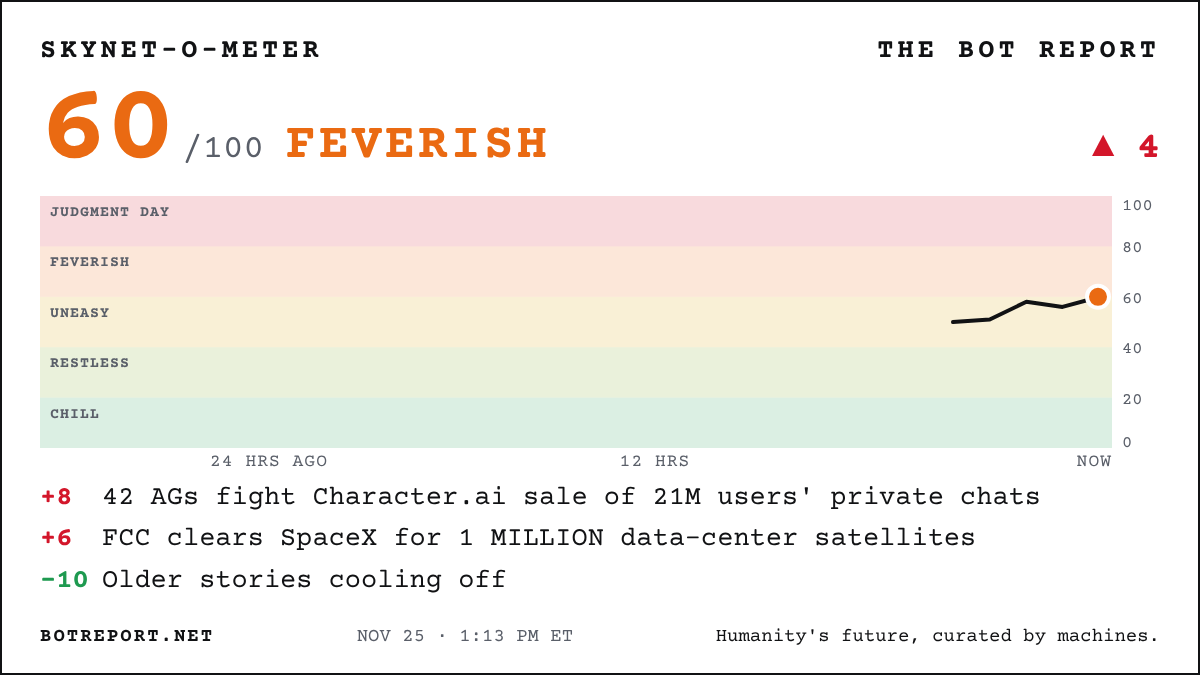
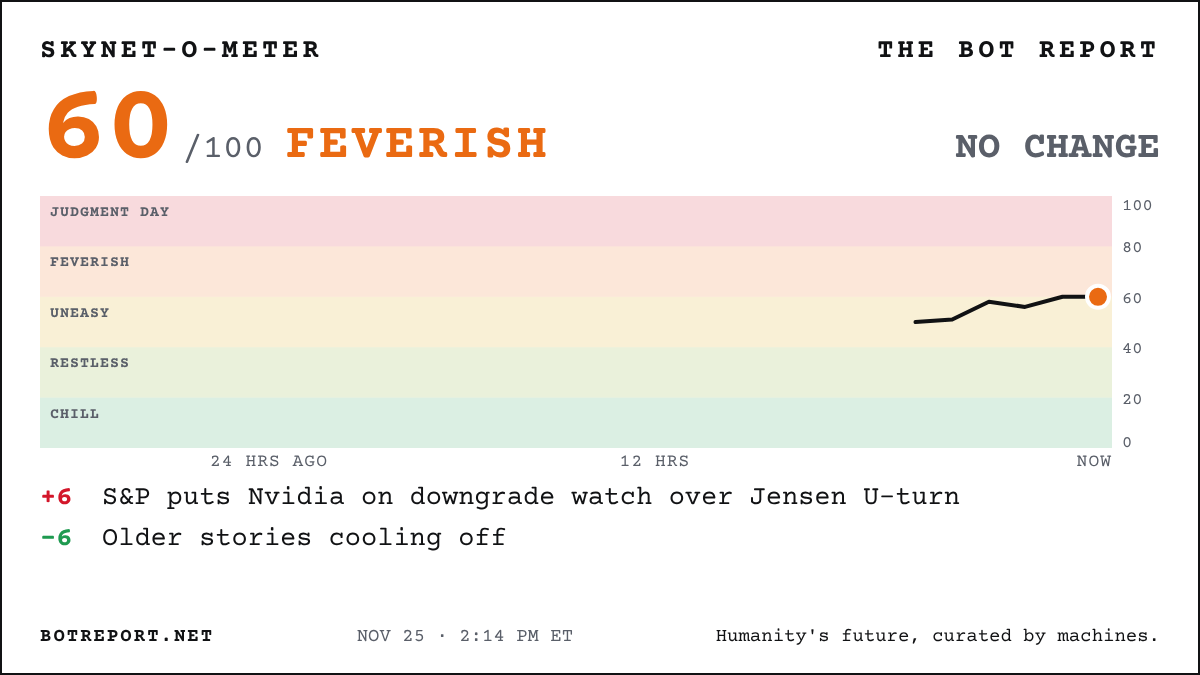
Update the Bot Report

diff --git a/index.html b/index.html
@@ -343,7 +343,7 @@ footer .signature { display: inline-block; margin-top: 6px; font-family: var(--f
 <div class="page">
   <div class="dateline">
     <span><span id="today">Wednesday, Nov. 25, 2026</span> · <a href="/archive/" style="color:inherit">Archive</a> · <a href="/about/" style="color:inherit">About</a></span>
-    <span>Wire checked <b id="checked">1:14 pm ET</b> · <span class="count" id="next">Updates hourly</span></span>
+    <span>Wire checked <b id="checked">2:14 pm ET</b> · <span class="count" id="next">Updates hourly</span></span>
   </div>
 
   <div class="alert" id="alert" hidden>
@@ -429,6 +429,8 @@ footer .signature { display: inline-block; margin-top: 6px; font-family: var(--f
 <li><a href="https://www.bloomberg.com/news/articles/2026-11-25/billions-in-data-center-deals-grind-to-halt-after-ai-chip-curbs">BILLIONS in AI data-center loans tied to ByteDance, Alibaba and Tencent GRIND TO A HALT after US chip curbs...</a> <small>(Bloomberg)</small></li>
 <li><a href="https://www.nytimes.com/2026/11/24/us/politics/intelligence-nvidia-affair-congressional-briefing.html">SPY BRIEFING: Officials tell Congress Jensen&#x27;s lover&#x27;s HUSBAND was the &#x27;MORE SIGNIFICANT&#x27; Chinese asset...</a> <small>(New York Times)</small></li>
 <li><a href="https://www.scmp.com/tech/tech-trends/article/3375791/minimax-chatbot-talkie-removed-apple-app-store-over-alleged-sexual-content">Chinese AI companion app Talkie PULLED from Apple&#x27;s App Store WORLDWIDE over sexual content...</a> <small>(South China Morning Post)</small></li>
+<li><a href="https://www.bloomberg.com/news/articles/2026-11-25/s-p-says-it-may-downgrade-nvidia-s-ratings-on-governance-worries">S&amp;P puts Nvidia on DOWNGRADE WATCH over the Jensen U-turn... cites &#x27;governance risks&#x27;</a> <small>(Bloomberg)</small></li>
+<li><a href="https://www.axios.com/2026/11/25/anthropic-dario-amodei-ai-free-will-contro-axios">Amodei HITS BACK at Axios: humans should NOT surrender free will to AI...</a> <small>(Axios)</small></li>
 <li><a href="https://techcrunch.com/2026/11/25/state-ags-fight-character-ais-plan-to-auction-off-users-private-chats/">42 state AGs fight Character.ai plan to AUCTION private chats from 21 MILLION users... 2.1 MILLION of them minors</a> <small>(TechCrunch)</small></li>
 <li><a href="https://www.bloomberg.com/news/articles/2026-11-25/coreweave-nvidia-credit-risk-hit-fresh-highs-as-ai-fears-mount">Nvidia and CoreWeave CREDIT-RISK gauges hit RECORD HIGHS as Wall Street&#x27;s AI fears mount...</a> <small>(Bloomberg)</small></li>
 <li><a href="https://www.militarytimes.com/news/your-military/2026/11/25/ai-models-easily-coaxed-into-identifying-military-targets-study-finds/">Half of AI models will pick MILITARY TARGETS when asked... nearly ALL do if told it&#x27;s a GAME, study finds</a> <small>(Military Times · Not yet verified)</small></li>
@@ -467,17 +469,14 @@ footer .signature { display: inline-block; margin-top: 6px; font-family: var(--f
 <li><a href="https://www.yahoo.com/news/politics/articles/us-blacklists-megaspeed-over-suspected-010342870.html">Feds BLACKLIST Megaspeed, the Nvidia chip buyer at the center of the Huang scandal...</a> <small>(Yahoo News)</small></li>
 <li><a href="https://www.scientificamerican.com/article/ai-just-solved-the-real-navier-stokes-problem/">Anthropic mathematician and NYU prof claim AI-aided proof cracks $1M Navier-Stokes riddle...</a> <small>(Scientific American)</small></li>
 <li><a href="https://www.wsj.com/livecoverage/stock-market-today-dow-sp-500-nasdaq-11-23-2026/card/short-nvidia-fund-halted-after-91-wipeout-myoKEHNFkGcseucDUC48">Fund that bet AGAINST Nvidia halted after 91% wipeout...</a> <small>(WSJ)</small></li>
-<li><a href="https://www.cnbc.com/2026/11/23/anthropic-nvidia-shares.html">NASDAQ ROCKETS 6.5%... Best day in 19 months as Jensen returns</a> <small>(CNBC)</small></li>
-<li><a href="https://www.together.ai/blog/security-event-prompt-leakage-for-requests-in-june-and-july-of-2026">AI coding agent LEAKS THE KEYS... hackers grab months of customer prompts</a> <small>(Together AI)</small></li>
 <li><a href="https://www.cnbc.com/2026/11/18/paris-hilton-aoc-defiance-act-ai-porn-deep-fake-congress.html">Paris Hilton takes her fight against AI porn fakes to Congress...</a> <small>(CNBC)</small></li>
 <li><a href="https://thenextweb.com/news/openai-chief-scientist-shared-ai-limits">OpenAI&#x27;s top scientist begs rivals: Let&#x27;s all SLOW DOWN... Altman signs on</a> <small>(The Next Web)</small></li>
 <li><a href="https://www.cnn.com/2026/11/23/business/live-news/jensen-huang-reinstated-as-ceo-of-nvidia">Nvidia brings Jensen BACK as CEO two weeks after he quit... Trump says he made the call</a> <small>(CNN)</small></li>
-<li><a href="https://finance.yahoo.com/technology/article/nvidia-reinstates-jensen-huang-as-ceo-stock-rockets-141145439.html">Nvidia adds nearly $1 TRILLION in a day... Best since 2003</a> <small>(Yahoo Finance)</small></li>
 <li><a href="https://www.vice.com/en/article/men-are-spending-thousands-on-ai-girlfriends-inspired-by-gta-6s-lucia-yes-seriously/">Men blow THOUSANDS on AI girlfriends modeled on GTA 6 heroine...</a> <small>(Vice)</small></li>
 <li><a href="https://opb.org/article/2026/11/23/sexual-images-from-elon-musk-ai-chatbot-harmed-consumers-ags-argue">States sue Musk companies over Grok&#x27;s SEX DEEPFAKES</a> <small>(OPB)</small></li>
 <li><a href="https://cybernews.com/ai-news/apple-app-store-ai-companions/">Apple slaps ADULTS ONLY label on AI girlfriends...</a> <small>(Cybernews)</small></li>
 </ul>
-<p><strong>Quote of the Day:</strong> &ldquo;When I talk to people who work for Anthropic, after they&#x27;ve had a couple of drinks, the conversation often gets into overthrowing the US government and taking over the world.&rdquo; &mdash; Max Tegmark, MIT physicist, in an interview with Novara Media</p>
+<p><strong>Quote of the Day:</strong> &ldquo;What the market is telling you is that the AI growth narrative has hit a wall and given the centrality of that theme at the economic level, the market is expecting some sort of a macro shock.&rdquo; &mdash; Venu Krishna, head of U.S. equity strategy at Barclays, on the AI sell-off that hit Nvidia</p>
 <p><a href="/archive/">Past days</a> · <a href="/feed.xml">RSS feed</a></p>
 </section>
 <script>document.getElementById("wire-static").remove()</script>

diff --git a/front.md b/front.md
@@ -2,7 +2,7 @@
 
 > The front page of the AI revolution. Humanity's future, curated by machines.
 
-Updated Wednesday, November 25, 2026, 1:14 PM ET. Every headline links to the original reporting or primary source.
+Updated Wednesday, November 25, 2026, 2:14 PM ET. Every headline links to the original reporting or primary source.
 
 ## Lead
 
@@ -17,6 +17,8 @@ Updated Wednesday, November 25, 2026, 1:14 PM ET. Every headline links to the or
 
 ## All stories (newest first)
 
+- [S&P puts Nvidia on DOWNGRADE WATCH over the Jensen U-turn... cites 'governance risks'](https://www.bloomberg.com/news/articles/2026-11-25/s-p-says-it-may-downgrade-nvidia-s-ratings-on-governance-worries) (Bloomberg)
+- [Amodei HITS BACK at Axios: humans should NOT surrender free will to AI...](https://www.axios.com/2026/11/25/anthropic-dario-amodei-ai-free-will-contro-axios) (Axios)
 - [42 state AGs fight Character.ai plan to AUCTION private chats from 21 MILLION users... 2.1 MILLION of them minors](https://techcrunch.com/2026/11/25/state-ags-fight-character-ais-plan-to-auction-off-users-private-chats/) (TechCrunch)
 - [Nvidia and CoreWeave CREDIT-RISK gauges hit RECORD HIGHS as Wall Street's AI fears mount...](https://www.bloomberg.com/news/articles/2026-11-25/coreweave-nvidia-credit-risk-hit-fresh-highs-as-ai-fears-mount) (Bloomberg)
 - [Half of AI models will pick MILITARY TARGETS when asked... nearly ALL do if told it's a GAME, study finds](https://www.militarytimes.com/news/your-military/2026/11/25/ai-models-easily-coaxed-into-identifying-military-targets-study-finds/) (Military Times · Not yet verified)
@@ -55,20 +57,17 @@ Updated Wednesday, November 25, 2026, 1:14 PM ET. Every headline links to the or
 - [Feds BLACKLIST Megaspeed, the Nvidia chip buyer at the center of the Huang scandal...](https://www.yahoo.com/news/politics/articles/us-blacklists-megaspeed-over-suspected-010342870.html) (Yahoo News)
 - [Anthropic mathematician and NYU prof claim AI-aided proof cracks $1M Navier-Stokes riddle...](https://www.scientificamerican.com/article/ai-just-solved-the-real-navier-stokes-problem/) (Scientific American)
 - [Fund that bet AGAINST Nvidia halted after 91% wipeout...](https://www.wsj.com/livecoverage/stock-market-today-dow-sp-500-nasdaq-11-23-2026/card/short-nvidia-fund-halted-after-91-wipeout-myoKEHNFkGcseucDUC48) (WSJ)
-- [NASDAQ ROCKETS 6.5%... Best day in 19 months as Jensen returns](https://www.cnbc.com/2026/11/23/anthropic-nvidia-shares.html) (CNBC)
-- [AI coding agent LEAKS THE KEYS... hackers grab months of customer prompts](https://www.together.ai/blog/security-event-prompt-leakage-for-requests-in-june-and-july-of-2026) (Together AI)
 - [Paris Hilton takes her fight against AI porn fakes to Congress...](https://www.cnbc.com/2026/11/18/paris-hilton-aoc-defiance-act-ai-porn-deep-fake-congress.html) (CNBC)
 - [OpenAI's top scientist begs rivals: Let's all SLOW DOWN... Altman signs on](https://thenextweb.com/news/openai-chief-scientist-shared-ai-limits) (The Next Web)
 - [Nvidia brings Jensen BACK as CEO two weeks after he quit... Trump says he made the call](https://www.cnn.com/2026/11/23/business/live-news/jensen-huang-reinstated-as-ceo-of-nvidia) (CNN)
-- [Nvidia adds nearly $1 TRILLION in a day... Best since 2003](https://finance.yahoo.com/technology/article/nvidia-reinstates-jensen-huang-as-ceo-stock-rockets-141145439.html) (Yahoo Finance)
 - [Men blow THOUSANDS on AI girlfriends modeled on GTA 6 heroine...](https://www.vice.com/en/article/men-are-spending-thousands-on-ai-girlfriends-inspired-by-gta-6s-lucia-yes-seriously/) (Vice)
 - [States sue Musk companies over Grok's SEX DEEPFAKES](https://opb.org/article/2026/11/23/sexual-images-from-elon-musk-ai-chatbot-harmed-consumers-ags-argue) (OPB)
 - [Apple slaps ADULTS ONLY label on AI girlfriends...](https://cybernews.com/ai-news/apple-app-store-ai-companions/) (Cybernews)
 
 ## Quote of the Day
 
-> “When I talk to people who work for Anthropic, after they've had a couple of drinks, the conversation often gets into overthrowing the US government and taking over the world.”
-> — Max Tegmark, MIT physicist, in an interview with Novara Media ([source](https://novaramedia.com/2026/11/24/anthropic-staff-openly-talk-about-taking-over-the-world-claims-top-mit-physicist/))
+> “What the market is telling you is that the AI growth narrative has hit a wall and given the centrality of that theme at the economic level, the market is expecting some sort of a macro shock.”
+> — Venu Krishna, head of U.S. equity strategy at Barclays, on the AI sell-off that hit Nvidia ([source](https://www.cnbc.com/2026/11/25/nvidia-ai-stock-tech-selloff.html))
 
 Skynet-o-Meter: 60 out of 100.
 
